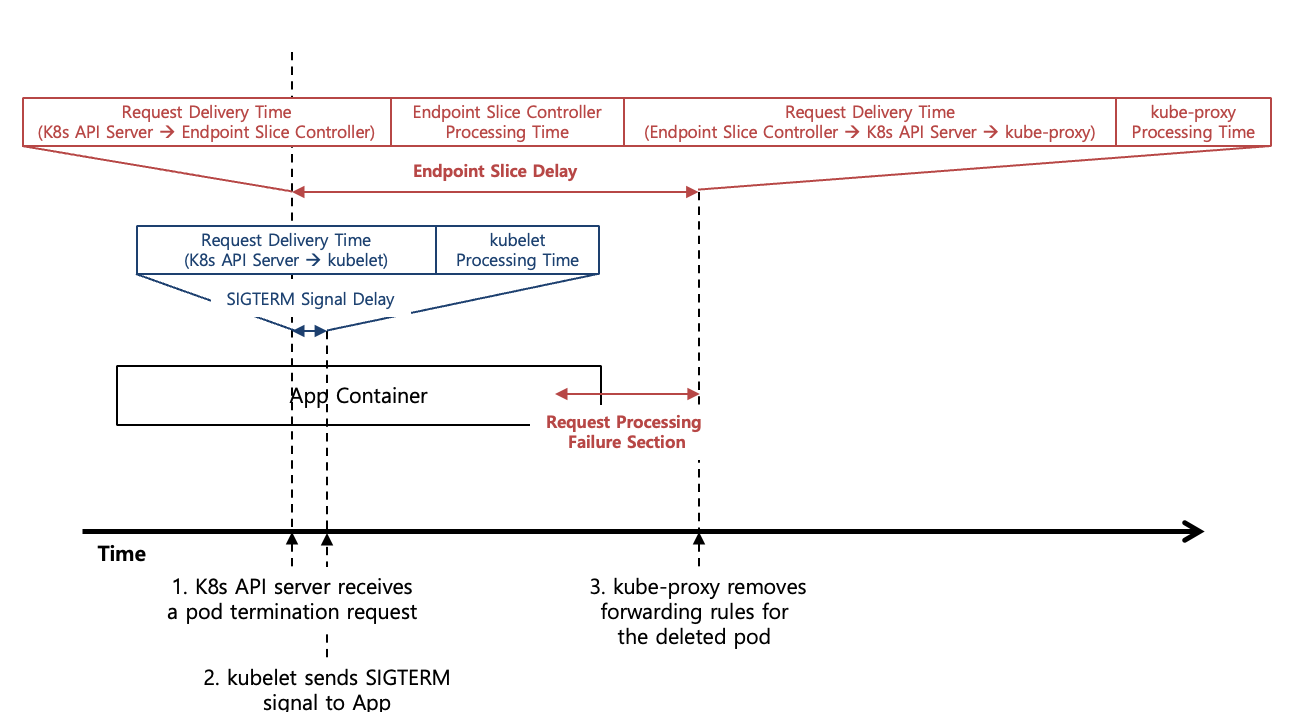
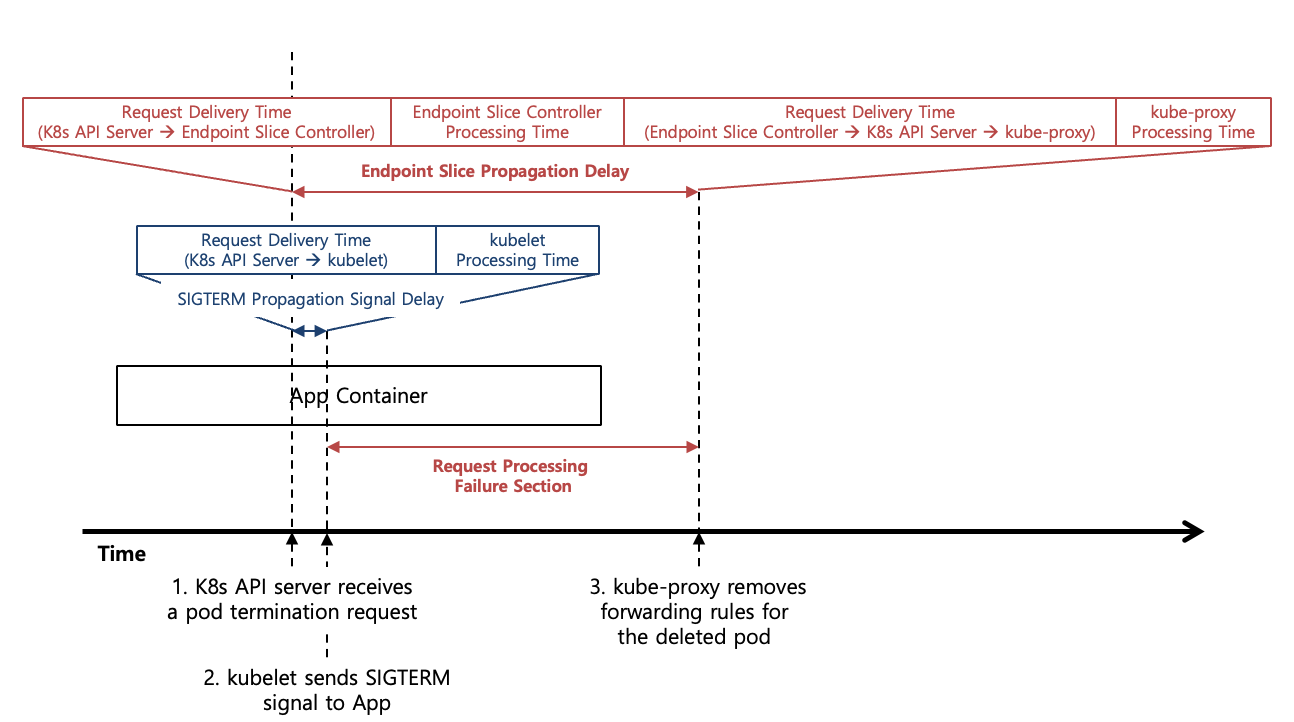
update

diff --git a/content/docs/theory-analysis/kubernetes-pod-termination/index.md b/content/docs/theory-analysis/kubernetes-pod-termination/index.md
@@ -15,13 +15,15 @@ Pod가 종료되도 Pod 안에서 동작하는 App Container가 안정적으로 
 4. PreStop Hook의 동작이 완료되면 kubelet은 `SIGTERM` Signal을 전송한다. `SIGTERM` Signal을 받은 App Container는 현재 처리중인 Request를 모두 처리하고 종료를 시도한다.
 5. 만약 `SIGTERM`을 받은 App Container가 종료되지 않으면 `SIGKILL` Signal을 받고 강제로 종료된다. kubelet은 K8s API 서버가 받은 Pod 종료 요청 시간부터 App Container에 설정된 `terminationGracePeriodSeconds` 시간만큼 대기후에 `SIGKILL` Signal을 전송한다. `terminationGracePeriodSeconds`의 기본값은 30초이다.
 
-App Container가 우아하게 종료되기 위해서는 마지막 `SIGKILL` 과정을 제외한 **1~4의 과정이 수행**되어야 한다. 1,3번의 과정은 Kubernetes 내부적으로 자동으로 수행되는 과정이지만, 2번의 과정은 Pod 내부의 App Container에 PreStop Hook을 설정하지 않으면 수행되지 않으며, 4번의 과정은 App Container에서 `SIGTERM` Signal을 처리하지 않도록 설정하면 수행되지 않기 때문에 관리가 필요하다. 또한 App Container가 `SIGKILL`을 받으면 Request가 제대로 처리되지 않고 강제로 종료될 수 있기 때문에 `terminationGracePeriodSeconds`의 값도 적절하게 설정해야한다.
+{{< figure caption="[Figure 2] Kubernetes Pod Termination with Gracefully Termination" src="images/kubernetes-pod-termination-with-gracefully-termination.png" width="1000px" >}}
+
+App Container가 우아하게 종료되기 위해서는 [Figure 2]와 같이 마지막 `SIGKILL` 과정을 제외한 **1~4의 과정이 수행**되어야 한다. 1,3번의 과정은 Kubernetes 내부적으로 자동으로 수행되는 과정이지만, 2번의 과정은 Pod 내부의 App Container에 **PreStop Hook**을 설정하지 않으면 수행되지 않으며, 4번의 과정은 App Container에서 `SIGTERM` Signal을 처리하지 않도록 설정하면 수행되지 않기 때문에 관리가 필요하다. 또한 App Container가 `SIGKILL`을 받으면 Request가 제대로 처리되지 않고 강제로 종료될 수 있기 때문에 `terminationGracePeriodSeconds`의 값도 적절하게 설정해야한다.
 
 ### 1.1. PreStop Hook 설정
 
-{{< figure caption="[Figure 2] Kubernetes Pod Termination without PreStop Hook" src="images/kubernetes-pod-termination-without-prestop-hook.png" width="1000px" >}}
+{{< figure caption="[Figure 3] Kubernetes Pod Termination without PreStop Hook" src="images/kubernetes-pod-termination-without-prestop-hook.png" width="1000px" >}}
 
-[Figure 2] 과정은 App Container에 PreStop Hook을 설정하지 않았을 경우 발생할 수 있는 App Container로 전달된 Request가 처리되지 못한 문제를 나타내고 있다. App Container에 PreStop Hook이 설정되어 있지 않으면 Pod Termination 요청을 받은 kubelet은 `SIGTERM` Signal을 곧바로 전송한다. `SIGTERM` Signal을 받은 App Container는 이후에 전달받은 Request를 처리하지 않거나, 곧바로 종료되어 제거될 수 있다.
+[Figure 3] 과정은 App Container에 PreStop Hook을 설정하지 않았을 경우 발생할 수 있는 App Container로 전달된 Request가 처리되지 못한 문제를 나타내고 있다. App Container에 PreStop Hook이 설정되어 있지 않으면 Pod Termination 요청을 받은 kubelet은 `SIGTERM` Signal을 곧바로 전송한다. `SIGTERM` Signal을 받은 App Container는 이후에 전달받은 Request를 처리하지 않거나, 곧바로 종료되어 제거될 수 있다.
 
 문제는 Pod Termination 요청 Endpoint Slice Controller가 처리하고 다시 kube-proxy로 전달되고, kube-proxy가 다시 iptable/IPVS Rule을 설정하는데 시간이 소요된다는 점이다. 즉 **Endpoint Slice Propagation Delay**가 발생하고 이로 인해서 `SIGTERM` Signal을 받은 App Container는 이후에도 짧은 시간동안 다른 Pod로부터 Request를 전달 받을수 있다. [Figure 1]처럼 App Container에 PreStop Hook이 설정되어 있다면 App Container가 늦게 `SIGTERM` Signal을 받고 늦게 종료가 시작되기 때문에 Endpoint Slice Propagation Delay로 인해서 늦게 Request가 도착해도 문제없이 처리가 가능해 진다.
 
@@ -42,13 +44,30 @@ PreStop Hook은 `SIGTERM` Signal을 늦게 받기 위한 용도로 활용되기 
 
 ### 1.2. App Container의 SIGTERM 처리
 
+{{< figure caption="[Figure 4] Kubernetes Pod Termination without PreStop Hook" src="images/kubernetes-pod-termination-without-sigterm-handler.png" width="1000px" >}}
+
+Linux 환경에서 `SIGTERM` Signal Handler가 설정되지 않는 Application (Process)는 `SIGTERM` Signal을 받는 순간 죽는다. [Figure 4]는 App Container가 SIGTERM Handler가 설정되지 않았을 때를 나타내고 있다. SIGTERM을 받자마자 App Container가 제거되기 때문에, 전달 받은 Request를 제대로 처리하지 못하고 종료될 수 있다.
+
+```yaml {caption="[File 2] SpringBoot SIGTEM Handler Configuration", linenos=table}
+server
+  shutdown: graceful
+```
+
+대부분의 App Server Framework에서는 `SIGTERM` Signal을 손쉽게 처리할 수 있는 Gracefully Termination 설정을 제공하기 때문에, 직접 `SIGTERM` Handler를 작성할 필요는 없다. [File 2]는 SpringBoot의 예제를 나타내고 있다. Spring Boot에 `shutdown: graceful`을 설정하면 `SIGTERM` Signal을 수신하는 순간 신규 Request의 처리는 거절되며, 현재 처리중인 모든 Request가 마무리 된 이후에 종료된다.
+
+SpringBoot 뿐만이 아니라 대부분의 App Server Framework에서는 Gracefully Termination이 동작하면 `SIGTERM` Signal을 수신하는 순간 신규 Request도 거절하기 때문에, `SIGTERM` Signal을 App Container로 전송한 이후에는 신규 Request도 App Container로 전달되면 안되며, 이러한 역할은 PreStop Hook이 수행한다. 
+
+App Container가 `SIGTERM` Signal을 처리하지 않는 상태에서 우아한 종료를 수행하기 위해서는 PreStop Hook의 시간을 30초 이상으로 늘리는 방법이 존재한다. PreStop Hook이 길어질 수록 App Container가 `SIGTERM` Signal을 받는 시간이 늘어나고 그만큼 현재 처리중인 Request를 마무리할 수 있는 시간을 얻을 수 있기 때문이다. 하지만 PreStop Hook이 길어질 수록 Pod 종료 시간도 길어지고 그 만큼 Pod 배포 시간도 증가하기 때문에 가능하면 App Container에서 `SIGTERM` Signal Handler를 설정하는 방법을 권장한다.
+
 ### 1.3. terminationGracePeriodSeconds 설정
 
 ### 1.4. with Istio Sidecar
 
 `terminationDrainDuration`
 
-### 1.5. 우아한 종료 Test
+### 1.5. Gracefully Ter
+
+### 1.6. 우아한 종료 Test
 
 ## 2. 참조
 
